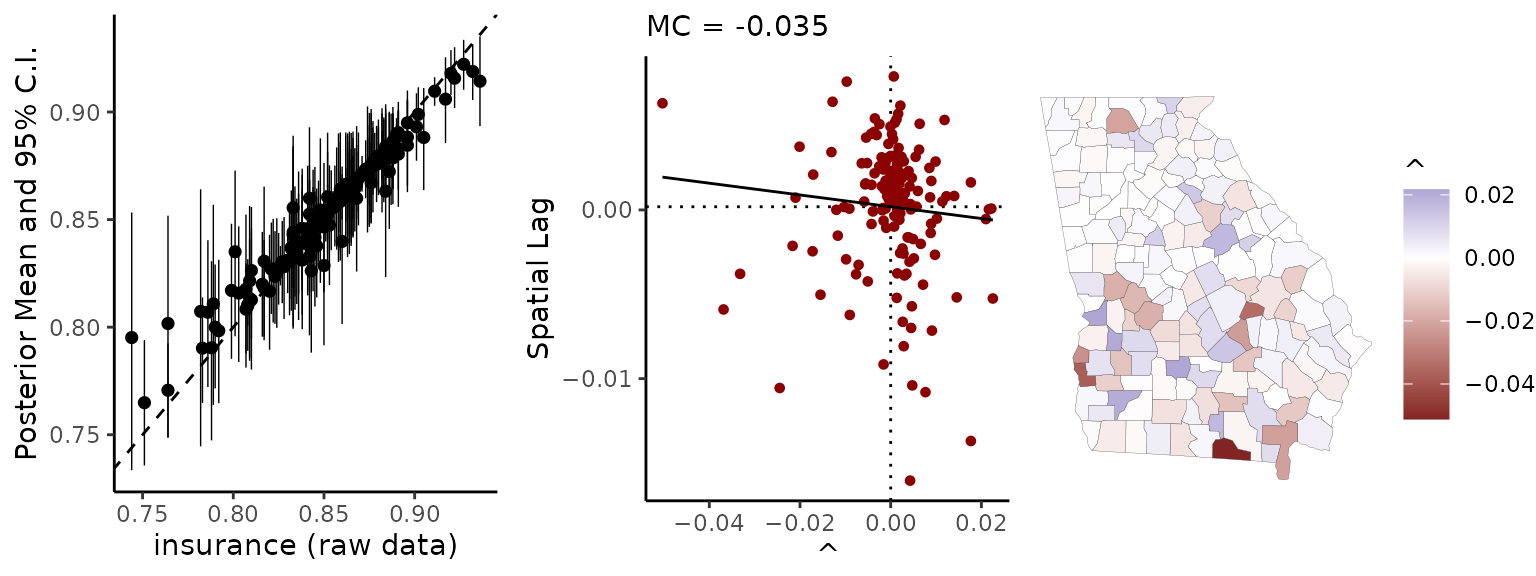
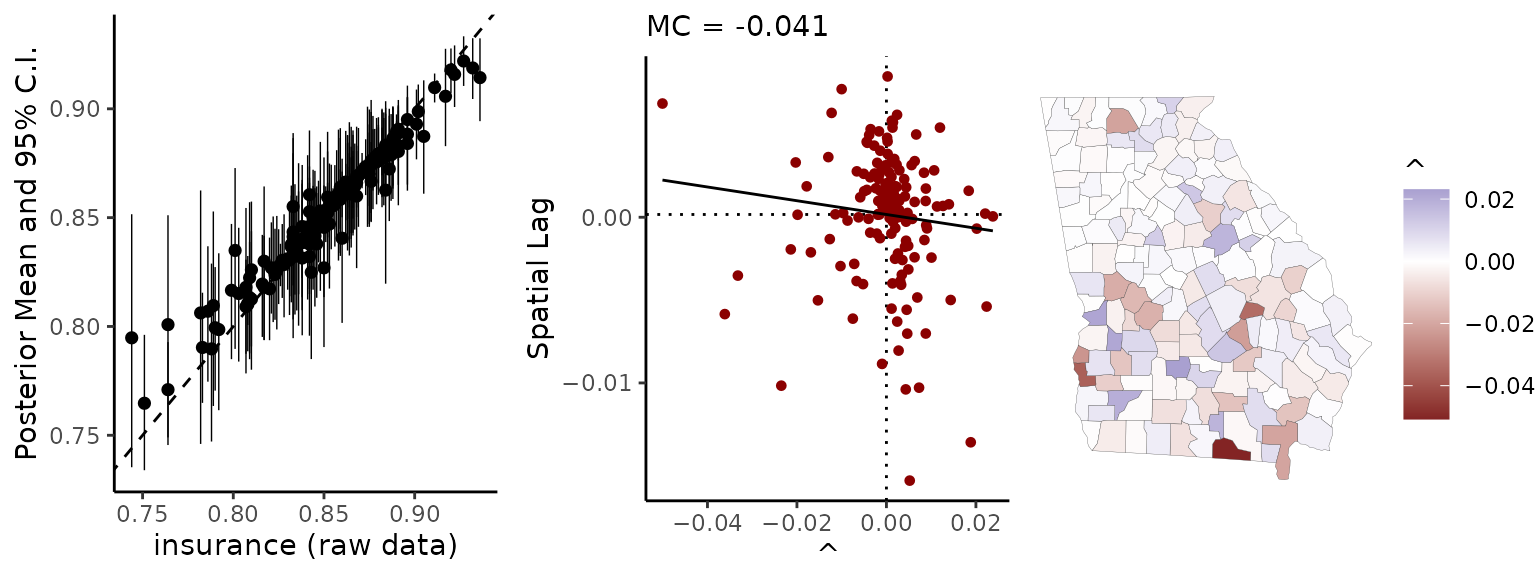
write the news

diff --git a/docs/articles/spatial-me-models.html b/docs/articles/spatial-me-models.html
@@ -221,9 +221,6 @@
 <pre><code><span class="co">## Warning: Bulk Effective Samples Size (ESS) is too low, indicating posterior means and medians may be unreliable.</span>
 <span class="co">## Running the chains for more iterations may help. See</span>
 <span class="co">## https://mc-stan.org/misc/warnings.html#bulk-ess</span></code></pre>
-<pre><code><span class="co">## Warning: Tail Effective Samples Size (ESS) is too low, indicating posterior variances and tail quantiles may be unreliable.</span>
-<span class="co">## Running the chains for more iterations may help. See</span>
-<span class="co">## https://mc-stan.org/misc/warnings.html#tail-ess</span></code></pre>
 <p>The CAR models in <strong>geostan</strong> can be highly efficient in terms of MCMC sampling, but the required number of iterations will depend on many characteristics of the model and data. Often the default <code>iter = 2000</code> is more than sufficient (with <code>cores = 4</code>). To speed up sampling with multi-core processing, use <code>cores = 4</code> (to sample 4 chains in parallel).</p>
 </div>
 <div class="section level2">
@@ -233,7 +230,7 @@
 <p>First, it provides a point-interval scatter plot that compares the raw survey estimates (on the horizontal axis) to the modeled values (on the vertical axis). The probability distributions for the modeled values are represented by their 95% credible intervals. The intervals provide a sense of the <em>quality</em> of the ACS data—if the credible intervals on the modeled value are large, this tells us that the data are not particularly reliable. Data quality places a limit on the kinds of inferences that can possibly be made, especially with multivariate data.</p>
 <p>The <code>me_diag</code> function also provides more direct visual depictions of the difference between the raw survey estimates <span class="math inline">\(z_i\)</span> an the modeled values <span class="math inline">\(x_i\)</span>: <span class="math display">\[\delta_i = z_i - x_i.\]</span> We want to look for any strong spatial pattern in these <span class="math inline">\(\delta_i\)</span> values, because that would be an indication of a bias. However, the magnitude of the <span class="math inline">\(\delta_i\)</span> value is important to consider—there may be a pattern, but if the amount of shrinkage is very small, that pattern may not matter. (The model returns <span class="math inline">\(M\)</span> samples from the posterior distribution of each <span class="math inline">\(x_i\)</span>; or, indexing by MCMC sample <span class="math inline">\(x_i^m\)</span> (<span class="math inline">\(m\)</span> is an index, not an exponent). The reported <span class="math inline">\(\delta_i\)</span> values is the MCMC mean <span class="math inline">\(\delta_i = \frac{1}{M} \sum_m z_i - x_i^m\)</span>.)</p>
 <p>Two figures are provided to evaluate patterns in <span class="math inline">\(\delta_i\)</span>: first, a Moran scatter plot and, second, a map.</p>
-<div class="sourceCode" id="cb16"><pre class="downlit sourceCode r">
+<div class="sourceCode" id="cb15"><pre class="downlit sourceCode r">
 <code class="sourceCode R"><span class="fu"><a href="../reference/me_diag.html">me_diag</a></span><span class="op">(</span><span class="va">fit</span>, <span class="st">'insurance'</span>, <span class="va">georgia</span><span class="op">)</span></code></pre></div>
 <p><img src="spatial-me-models_files/figure-html/unnamed-chunk-9-1.png" width="768" style="display: block; margin: auto;"></p>
 <p>In this case, the results do not look too concerning insofar as there are no conspicuous patterns. However, a number of the credible intervals on the modeled values are large, which indicates that this data is not of high quality. The fact that some of the <span class="math inline">\(\delta_i\)</span> values are substantial also points to low data quality.</p>
@@ -243,54 +240,54 @@
 </h3>
 <p><strong>geostan</strong> consists of pre-compiled Stan models, and users can always access the Markov chain Monte Carlo (MCMC) samples returned by Stan. When extracted as a matrix of samples (as below), each row of the matrix represents a draw from the joint probability distribution for all model parameters, and each column consists of samples from the marginal distribution of each parameter.</p>
 <p>The ME models return samples for <span class="math inline">\(x_i\)</span> as well as the model parameters <span class="math inline">\(\mu\)</span> (“mu_x_true”), <span class="math inline">\(\rho\)</span> (“car_rho_x_true”), and <span class="math inline">\(\tau\)</span> (“sigma_x_true”). We can access these using <code>as.matrix</code> (also <code>as.array</code> and <code>as.data.frame</code>).</p>
-<div class="sourceCode" id="cb17"><pre class="downlit sourceCode r">
+<div class="sourceCode" id="cb16"><pre class="downlit sourceCode r">
 <code class="sourceCode R"><span class="va">mu.x</span> <span class="op">&lt;-</span> <span class="fu"><a href="https://rdrr.io/r/base/matrix.html" class="external-link">as.matrix</a></span><span class="op">(</span><span class="va">fit</span>, pars <span class="op">=</span> <span class="st">"mu_x_true"</span><span class="op">)</span>
 <span class="fu"><a href="https://rdrr.io/r/base/dim.html" class="external-link">dim</a></span><span class="op">(</span><span class="va">mu.x</span><span class="op">)</span></code></pre></div>
 <pre><code><span class="co">## [1] 1300    1</span></code></pre>
-<div class="sourceCode" id="cb19"><pre class="downlit sourceCode r">
+<div class="sourceCode" id="cb18"><pre class="downlit sourceCode r">
 <code class="sourceCode R"><span class="fu"><a href="https://rdrr.io/r/utils/head.html" class="external-link">head</a></span><span class="op">(</span><span class="va">mu.x</span><span class="op">)</span></code></pre></div>
 <pre><code><span class="co">##           parameters</span>
 <span class="co">## iterations mu_x_true[1]</span>
-<span class="co">##       [1,]     1.700061</span>
-<span class="co">##       [2,]     1.866507</span>
-<span class="co">##       [3,]     1.709768</span>
-<span class="co">##       [4,]     1.721449</span>
-<span class="co">##       [5,]     1.862860</span>
-<span class="co">##       [6,]     1.771713</span></code></pre>
-<div class="sourceCode" id="cb21"><pre class="downlit sourceCode r">
+<span class="co">##       [1,]     1.742830</span>
+<span class="co">##       [2,]     1.745734</span>
+<span class="co">##       [3,]     1.815951</span>
+<span class="co">##       [4,]     1.830006</span>
+<span class="co">##       [5,]     1.663939</span>
+<span class="co">##       [6,]     1.677925</span></code></pre>
+<div class="sourceCode" id="cb20"><pre class="downlit sourceCode r">
 <code class="sourceCode R"><span class="fu"><a href="https://rdrr.io/r/base/mean.html" class="external-link">mean</a></span><span class="op">(</span><span class="va">mu.x</span><span class="op">)</span></code></pre></div>
-<pre><code><span class="co">## [1] 1.784943</span></code></pre>
+<pre><code><span class="co">## [1] 1.786869</span></code></pre>
 <p>We can visualize these using <code>plot</code> or print a summary:</p>
-<div class="sourceCode" id="cb23"><pre class="downlit sourceCode r">
+<div class="sourceCode" id="cb22"><pre class="downlit sourceCode r">
 <code class="sourceCode R"><span class="fu"><a href="https://rdrr.io/r/base/print.html" class="external-link">print</a></span><span class="op">(</span><span class="va">fit</span><span class="op">$</span><span class="va">stanfit</span>, pars <span class="op">=</span> <span class="fu"><a href="https://rdrr.io/r/base/c.html" class="external-link">c</a></span><span class="op">(</span><span class="st">"mu_x_true"</span>, <span class="st">"car_rho_x_true"</span>, <span class="st">"sigma_x_true"</span><span class="op">)</span><span class="op">)</span></code></pre></div>
 <pre><code><span class="co">## Inference for Stan model: foundation.</span>
 <span class="co">## 4 chains, each with iter=650; warmup=325; thin=1; </span>
 <span class="co">## post-warmup draws per chain=325, total post-warmup draws=1300.</span>
 <span class="co">## </span>
 <span class="co">##                   mean se_mean   sd 2.5%  25%  50%  75% 97.5% n_eff Rhat</span>
-<span class="co">## mu_x_true[1]      1.78    0.01 0.09 1.57 1.75 1.79 1.83  1.95   201 1.02</span>
-<span class="co">## car_rho_x_true[1] 0.91    0.00 0.07 0.74 0.87 0.92 0.96  1.00   545 1.00</span>
-<span class="co">## sigma_x_true[1]   0.48    0.00 0.04 0.42 0.46 0.48 0.51  0.56   496 1.00</span>
+<span class="co">## mu_x_true[1]      1.79       0 0.07 1.63 1.75 1.79 1.83  1.93   517 1.01</span>
+<span class="co">## car_rho_x_true[1] 0.91       0 0.06 0.75 0.87 0.92 0.95  0.99   658 1.00</span>
+<span class="co">## sigma_x_true[1]   0.48       0 0.04 0.42 0.46 0.48 0.51  0.57   631 1.00</span>
 <span class="co">## </span>
-<span class="co">## Samples were drawn using NUTS(diag_e) at Mon Sep 19 15:02:35 2022.</span>
+<span class="co">## Samples were drawn using NUTS(diag_e) at Mon Sep 19 18:58:29 2022.</span>
 <span class="co">## For each parameter, n_eff is a crude measure of effective sample size,</span>
 <span class="co">## and Rhat is the potential scale reduction factor on split chains (at </span>
 <span class="co">## convergence, Rhat=1).</span></code></pre>
 <p>To extract samples from the joint probability distribution for <span class="math inline">\(\boldsymbol x\)</span>, use the generic parameter name “x_true”:</p>
-<div class="sourceCode" id="cb25"><pre class="downlit sourceCode r">
+<div class="sourceCode" id="cb24"><pre class="downlit sourceCode r">
 <code class="sourceCode R"><span class="va">x</span> <span class="op">&lt;-</span> <span class="fu"><a href="https://rdrr.io/r/base/matrix.html" class="external-link">as.matrix</a></span><span class="op">(</span><span class="va">fit</span>, pars <span class="op">=</span> <span class="st">"x_true"</span><span class="op">)</span>
 <span class="fu"><a href="https://rdrr.io/r/base/dim.html" class="external-link">dim</a></span><span class="op">(</span><span class="va">x</span><span class="op">)</span></code></pre></div>
 <pre><code><span class="co">## [1] 1300  159</span></code></pre>
 <p>If we wanted to calculate the mean of each of these marginal distributions (one for every <span class="math inline">\(x_i\)</span>), we could use <code>apply</code> with <code>MARGIN = 2</code> to summarize by column:</p>
-<div class="sourceCode" id="cb27"><pre class="downlit sourceCode r">
+<div class="sourceCode" id="cb26"><pre class="downlit sourceCode r">
 <code class="sourceCode R"><span class="va">x.mu</span> <span class="op">&lt;-</span> <span class="fu"><a href="https://rdrr.io/r/base/apply.html" class="external-link">apply</a></span><span class="op">(</span><span class="va">x</span>, <span class="fl">2</span>, <span class="va">mean</span><span class="op">)</span>
 <span class="fu"><a href="https://rdrr.io/r/utils/head.html" class="external-link">head</a></span><span class="op">(</span><span class="va">x.mu</span><span class="op">)</span></code></pre></div>
 <pre><code><span class="co">## x_insurance[1] x_insurance[2] x_insurance[3] x_insurance[4] x_insurance[5] </span>
-<span class="co">##      0.8364901      0.7999472      0.8518636      0.8523471      0.9179334 </span>
+<span class="co">##      0.8365794      0.7994134      0.8519202      0.8521496      0.9178745 </span>
 <span class="co">## x_insurance[6] </span>
-<span class="co">##      0.8702361</span></code></pre>
+<span class="co">##      0.8701874</span></code></pre>
 <p>The vector <code>x.mu</code> contains estimates (posterior means) for <span class="math inline">\(x_i\)</span>. We might want to use these to plot the residuals or fitted values against the predictor:</p>
-<div class="sourceCode" id="cb29"><pre class="downlit sourceCode r">
+<div class="sourceCode" id="cb28"><pre class="downlit sourceCode r">
 <code class="sourceCode R"><span class="va">rs</span> <span class="op">&lt;-</span> <span class="fu"><a href="https://rdrr.io/r/stats/residuals.html" class="external-link">resid</a></span><span class="op">(</span><span class="va">fit</span><span class="op">)</span><span class="op">$</span><span class="va">mean</span>
 <span class="fu"><a href="https://r-spatial.github.io/sf/reference/plot.html" class="external-link">plot</a></span><span class="op">(</span><span class="va">x.mu</span>, <span class="va">rs</span><span class="op">)</span>
 <span class="fu"><a href="https://rdrr.io/r/graphics/abline.html" class="external-link">abline</a></span><span class="op">(</span>h <span class="op">=</span> <span class="fl">0</span><span class="op">)</span></code></pre></div>
@@ -301,7 +298,7 @@
 <h2 id="non-spatial-me-models">Non-spatial ME models<a class="anchor" aria-label="anchor" href="#non-spatial-me-models"></a>
 </h2>
 <p>If the <code>ME</code> list doesn’t have a slot with <code>car_parts</code>, <strong>geostan</strong> will automatically use a non-spatial Student’s t model instead of the CAR model: <span class="math display">\[ p(\boldsymbol x | \mathcal{M}) = Student(\boldsymbol x | \nu, \mu \boldsymbol 1, \sigma) \]</span></p>
-<div class="sourceCode" id="cb30"><pre class="downlit sourceCode r">
+<div class="sourceCode" id="cb29"><pre class="downlit sourceCode r">
 <code class="sourceCode R"><span class="va">ME_nsp</span> <span class="op">&lt;-</span> <span class="fu"><a href="../reference/prep_me_data.html">prep_me_data</a></span><span class="op">(</span>
   se <span class="op">=</span> <span class="fu"><a href="https://rdrr.io/r/base/data.frame.html" class="external-link">data.frame</a></span><span class="op">(</span>insurance <span class="op">=</span> <span class="va">georgia</span><span class="op">$</span><span class="va">insurance.se</span><span class="op">)</span>,
   logit <span class="op">=</span> <span class="cn">TRUE</span>

diff --git a/docs/reference/geostan_fit.html b/docs/reference/geostan_fit.html
@@ -72,7 +72,7 @@
 <span class="op">)</span>
 
 <span class="co"># S3 method for geostan_fit</span>
-<span class="fu"><a href="https://r-spatial.github.io/sf/reference/plot.html" class="external-link">plot</a></span><span class="op">(</span><span class="va">x</span>, <span class="va">pars</span>, plotfun <span class="op">=</span> <span class="st">"hist"</span>, fill <span class="op">=</span> <span class="st">"steelblue4"</span>, <span class="va">...</span><span class="op">)</span>
+<span class="fu"><a href="https://rdrr.io/r/graphics/plot.default.html" class="external-link">plot</a></span><span class="op">(</span><span class="va">x</span>, <span class="va">pars</span>, plotfun <span class="op">=</span> <span class="st">"hist"</span>, fill <span class="op">=</span> <span class="st">"steelblue4"</span>, <span class="va">...</span><span class="op">)</span>
 
 <span class="co"># S3 method for geostan_fit</span>
 <span class="fu"><a href="https://rdrr.io/r/base/matrix.html" class="external-link">as.matrix</a></span><span class="op">(</span><span class="va">x</span>, <span class="va">...</span><span class="op">)</span>
@@ -184,7 +184,7 @@ The <code>predict</code> method is designed for reviewing marginal effects of co
 
 <span class="co"># print and plot results</span>
 <span class="fu"><a href="https://rdrr.io/r/base/print.html" class="external-link">print</a></span><span class="op">(</span><span class="va">fit</span><span class="op">)</span>
-<span class="fu"><a href="https://r-spatial.github.io/sf/reference/plot.html" class="external-link">plot</a></span><span class="op">(</span><span class="va">fit</span><span class="op">)</span>
+<span class="fu"><a href="https://rdrr.io/r/graphics/plot.default.html" class="external-link">plot</a></span><span class="op">(</span><span class="va">fit</span><span class="op">)</span>
 
 <span class="co"># residuals</span>
 <span class="va">r</span> <span class="op">=</span> <span class="fu"><a href="https://rdrr.io/r/stats/residuals.html" class="external-link">resid</a></span><span class="op">(</span><span class="va">fit</span><span class="op">)</span>
@@ -202,7 +202,7 @@ The <code>predict</code> method is designed for reviewing marginal effects of co
 
 <span class="co"># posterior predictive distribution</span>
 <span class="va">yrep</span> <span class="op">&lt;-</span> <span class="fu"><a href="posterior_predict.html">posterior_predict</a></span><span class="op">(</span><span class="va">fit</span>, S <span class="op">=</span> <span class="fl">65</span><span class="op">)</span>
-<span class="fu"><a href="https://r-spatial.github.io/sf/reference/plot.html" class="external-link">plot</a></span><span class="op">(</span><span class="fu"><a href="https://rdrr.io/r/stats/density.html" class="external-link">density</a></span><span class="op">(</span><span class="va">yrep</span><span class="op">[</span><span class="fl">1</span>,<span class="op">]</span><span class="op">)</span>, col <span class="op">=</span> <span class="st">"gray30"</span><span class="op">)</span>
+<span class="fu"><a href="https://rdrr.io/r/graphics/plot.default.html" class="external-link">plot</a></span><span class="op">(</span><span class="fu"><a href="https://rdrr.io/r/stats/density.html" class="external-link">density</a></span><span class="op">(</span><span class="va">yrep</span><span class="op">[</span><span class="fl">1</span>,<span class="op">]</span><span class="op">)</span>, col <span class="op">=</span> <span class="st">"gray30"</span><span class="op">)</span>
 <span class="kw">for</span> <span class="op">(</span><span class="va">i</span> <span class="kw">in</span> <span class="fl">2</span><span class="op">:</span><span class="fu"><a href="https://rdrr.io/r/base/nrow.html" class="external-link">nrow</a></span><span class="op">(</span><span class="va">yrep</span><span class="op">)</span><span class="op">)</span> <span class="fu"><a href="https://rdrr.io/r/graphics/lines.html" class="external-link">lines</a></span><span class="op">(</span><span class="fu"><a href="https://rdrr.io/r/stats/density.html" class="external-link">density</a></span><span class="op">(</span><span class="va">yrep</span><span class="op">[</span><span class="va">i</span>,<span class="op">]</span><span class="op">)</span>, col <span class="op">=</span> <span class="st">"gray30"</span><span class="op">)</span>
 <span class="fu"><a href="https://rdrr.io/r/graphics/lines.html" class="external-link">lines</a></span><span class="op">(</span><span class="fu"><a href="https://rdrr.io/r/stats/density.html" class="external-link">density</a></span><span class="op">(</span><span class="va">georgia</span><span class="op">$</span><span class="va">deaths.male</span><span class="op">)</span>, col <span class="op">=</span> <span class="st">"darkred"</span>, lwd <span class="op">=</span> <span class="fl">2</span><span class="op">)</span>
 
@@ -217,7 +217,7 @@ The <code>predict</code> method is designed for reviewing marginal effects of co
 <span class="op">)</span>
 
 <span class="va">p</span> <span class="op">&lt;-</span> <span class="fu"><a href="https://rdrr.io/r/stats/predict.html" class="external-link">predict</a></span><span class="op">(</span><span class="va">fit</span>, <span class="va">newdata</span>, type <span class="op">=</span> <span class="st">"response"</span><span class="op">)</span>
-<span class="fu"><a href="https://r-spatial.github.io/sf/reference/plot.html" class="external-link">plot</a></span><span class="op">(</span><span class="va">newdata</span><span class="op">$</span><span class="va">income</span>, <span class="va">p</span><span class="op">$</span><span class="va">mean</span> <span class="op">*</span> <span class="fl">1e3</span>,
+<span class="fu"><a href="https://rdrr.io/r/graphics/plot.default.html" class="external-link">plot</a></span><span class="op">(</span><span class="va">newdata</span><span class="op">$</span><span class="va">income</span>, <span class="va">p</span><span class="op">$</span><span class="va">mean</span> <span class="op">*</span> <span class="fl">1e3</span>,
     type <span class="op">=</span> <span class="st">'l'</span>,
      main <span class="op">=</span> <span class="st">"Deaths per 1,000"</span>,
      ylab <span class="op">=</span> <span class="cn">NA</span>,

diff --git a/docs/news/index.html b/docs/news/index.html
@@ -60,16 +60,16 @@
 <h2 class="page-header" data-toc-text="0.4.0" id="geostan-040">geostan 0.4.0<a class="anchor" aria-label="anchor" href="#geostan-040"></a></h2>
 <div class="section level3">
 <h3 id="new-additions-0-4-0">New Additions<a class="anchor" aria-label="anchor" href="#new-additions-0-4-0"></a></h3>
+<div class="section level4">
+<h4 id="sar-models-0-4-0">SAR models<a class="anchor" aria-label="anchor" href="#sar-models-0-4-0"></a></h4>
 <p>The simultaneously-specified spatial autoregressive (SAR) model—referred to as the spatial error model (SEM) in the spatial econometrics literature—has been implemented. The SAR model can be applied directly to continuous data (as the likelihood function) or it can be used as prior model for spatially autocorrelated parameters. Details are provided on the documentation page for the <code>stan_sar</code> function.</p>
+</div>
 </div>
 <div class="section level3">
 <h3 id="minor-changes-0-4-0">Minor changes<a class="anchor" aria-label="anchor" href="#minor-changes-0-4-0"></a></h3>
-<p>Previously, when getting fitted values from an auto-normal model (i.e., the CAR model with <code>family = auto_gaussian()</code>) the fitted values did not include the implicit spatial trend. Now, the <code>fitted.geostan_fit</code> method will return the fitted values with the implicit spatial trend; this is consistent with the behavior of <code>residuals.geostan_fit</code>, which has an option to <code>detrend</code> the residuals. This applies to the SAR and CAR auto-normal specifications. For details, see the documentation pages for <code>stan_car</code> and <code>stan_sar</code>.</p>
-</div>
-<div class="section level3">
-<h3 id="minor-changes-0-4-0-1">Minor changes<a class="anchor" aria-label="anchor" href="#minor-changes-0-4-0-1"></a></h3>
-<p>The documentation for the models (<code>stan_glm</code>, <code>stan_car</code>, <code>stan_esf</code>, <code>stan_icar</code>, <code>stan_sar</code>) now uses Latex to typeset the model equations.</p>
-</div>
+<ul><li><p>Previously, when getting fitted values from an auto-normal model (i.e., the CAR model with <code>family = auto_gaussian()</code>) the fitted values did not include the implicit spatial trend. Now, the <code>fitted.geostan_fit</code> method will return the fitted values with the implicit spatial trend; this is consistent with the behavior of <code>residuals.geostan_fit</code>, which has an option to <code>detrend</code> the residuals. This applies to the SAR and CAR auto-normal specifications. For details, see the documentation pages for <code>stan_car</code> and <code>stan_sar</code>.</p></li>
+<li><p>The documentation for the models (<code>stan_glm</code>, <code>stan_car</code>, <code>stan_esf</code>, <code>stan_icar</code>, <code>stan_sar</code>) now uses Latex to typeset the model equations.</p></li>
+</ul></div>
 </div>
     <div class="section level2">
 <h2 class="page-header" data-toc-text="0.3.0" id="geostan-030">geostan 0.3.0<small>2022-07-11</small><a class="anchor" aria-label="anchor" href="#geostan-030"></a></h2>

diff --git a/NEWS.md b/NEWS.md
@@ -2,15 +2,15 @@
 
 ## New Additions
 
+### SAR models
+
 The simultaneously-specified spatial autoregressive (SAR) model---referred to as the spatial error model (SEM) in the spatial econometrics literature---has been implemented. The SAR model can be applied directly to continuous data (as the likelihood function) or it can be used as prior model for spatially autocorrelated parameters. Details are provided on the documentation page for the `stan_sar` function.
 
 ## Minor changes
 
-Previously, when getting fitted values from an auto-normal model (i.e., the CAR model with `family = auto_gaussian()`) the fitted values did not include the implicit spatial trend. Now, the `fitted.geostan_fit` method will return the fitted values with the implicit spatial trend; this is consistent with the behavior of `residuals.geostan_fit`, which has an option to `detrend` the residuals. This applies to the SAR and CAR auto-normal specifications. For details, see the documentation pages for `stan_car`  and `stan_sar`.
+ - Previously, when getting fitted values from an auto-normal model (i.e., the CAR model with `family = auto_gaussian()`) the fitted values did not include the implicit spatial trend. Now, the `fitted.geostan_fit` method will return the fitted values with the implicit spatial trend; this is consistent with the behavior of `residuals.geostan_fit`, which has an option to `detrend` the residuals. This applies to the SAR and CAR auto-normal specifications. For details, see the documentation pages for `stan_car` and `stan_sar`.
 
-## Minor changes
-
-The documentation for the models (`stan_glm`, `stan_car`, `stan_esf`, `stan_icar`, `stan_sar`) now uses Latex to typeset the model equations.
+ - The documentation for the models (`stan_glm`, `stan_car`, `stan_esf`, `stan_icar`, `stan_sar`) now uses Latex to typeset the model equations.
 
 # geostan 0.3.0
 
